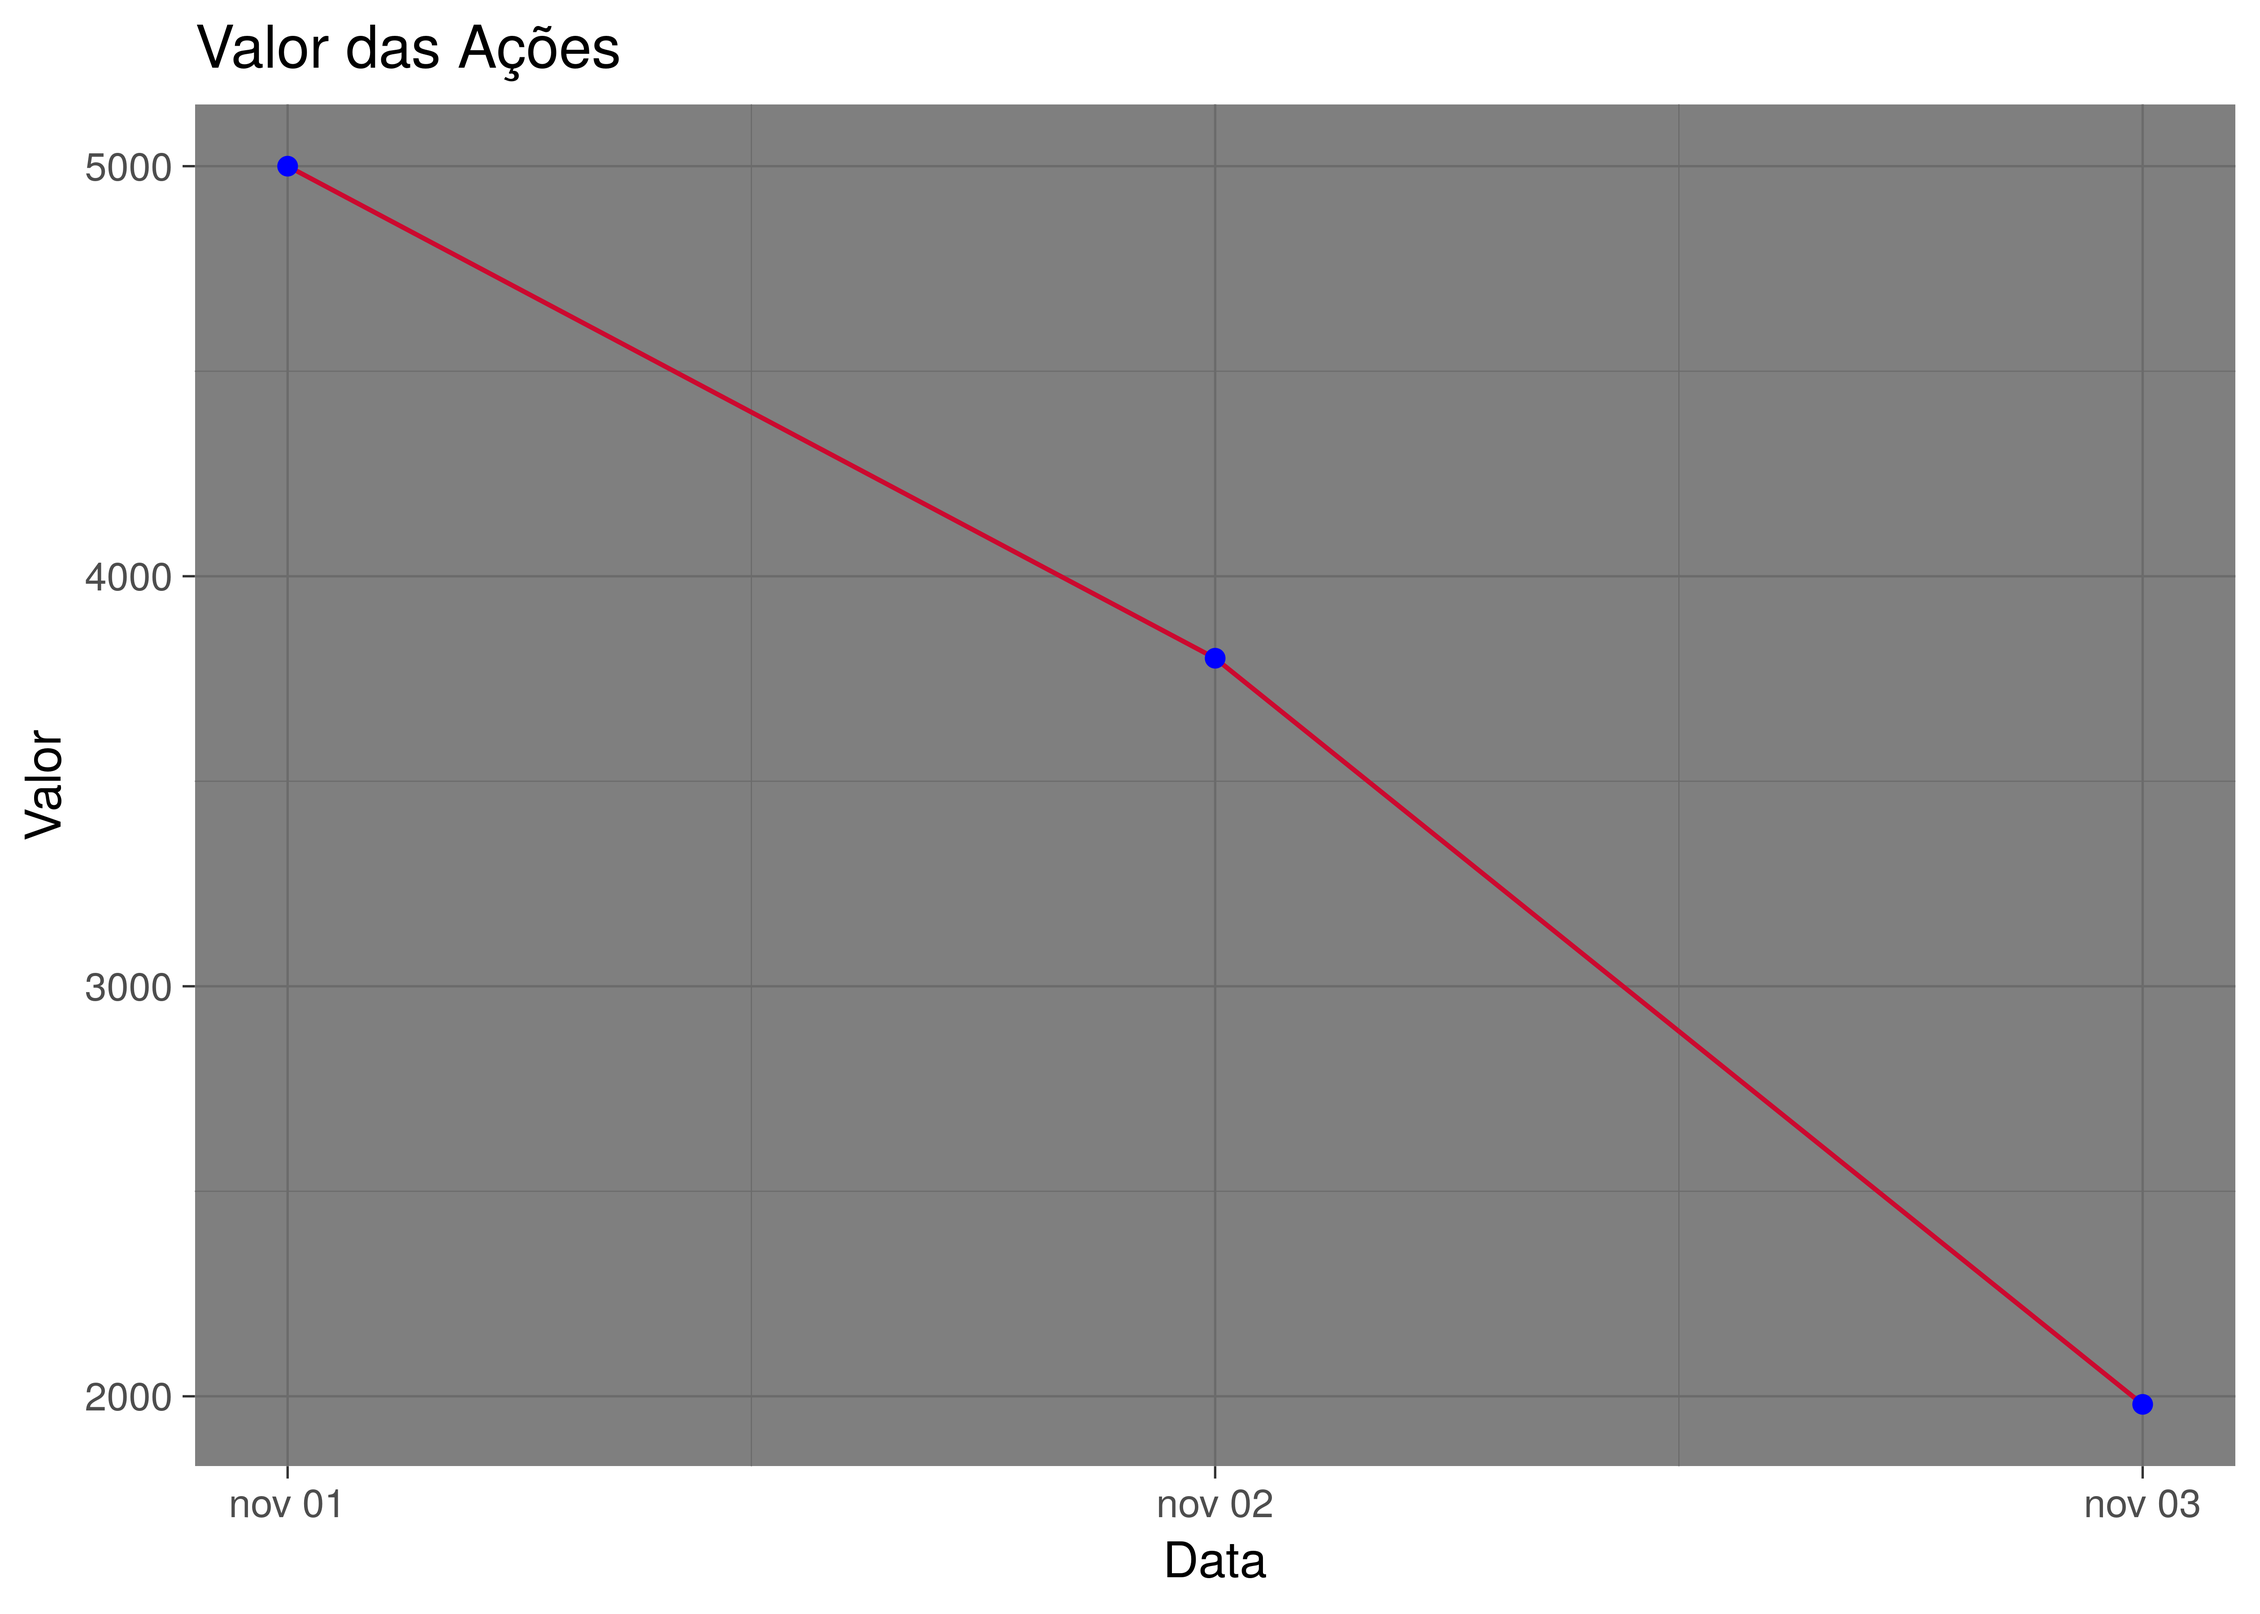
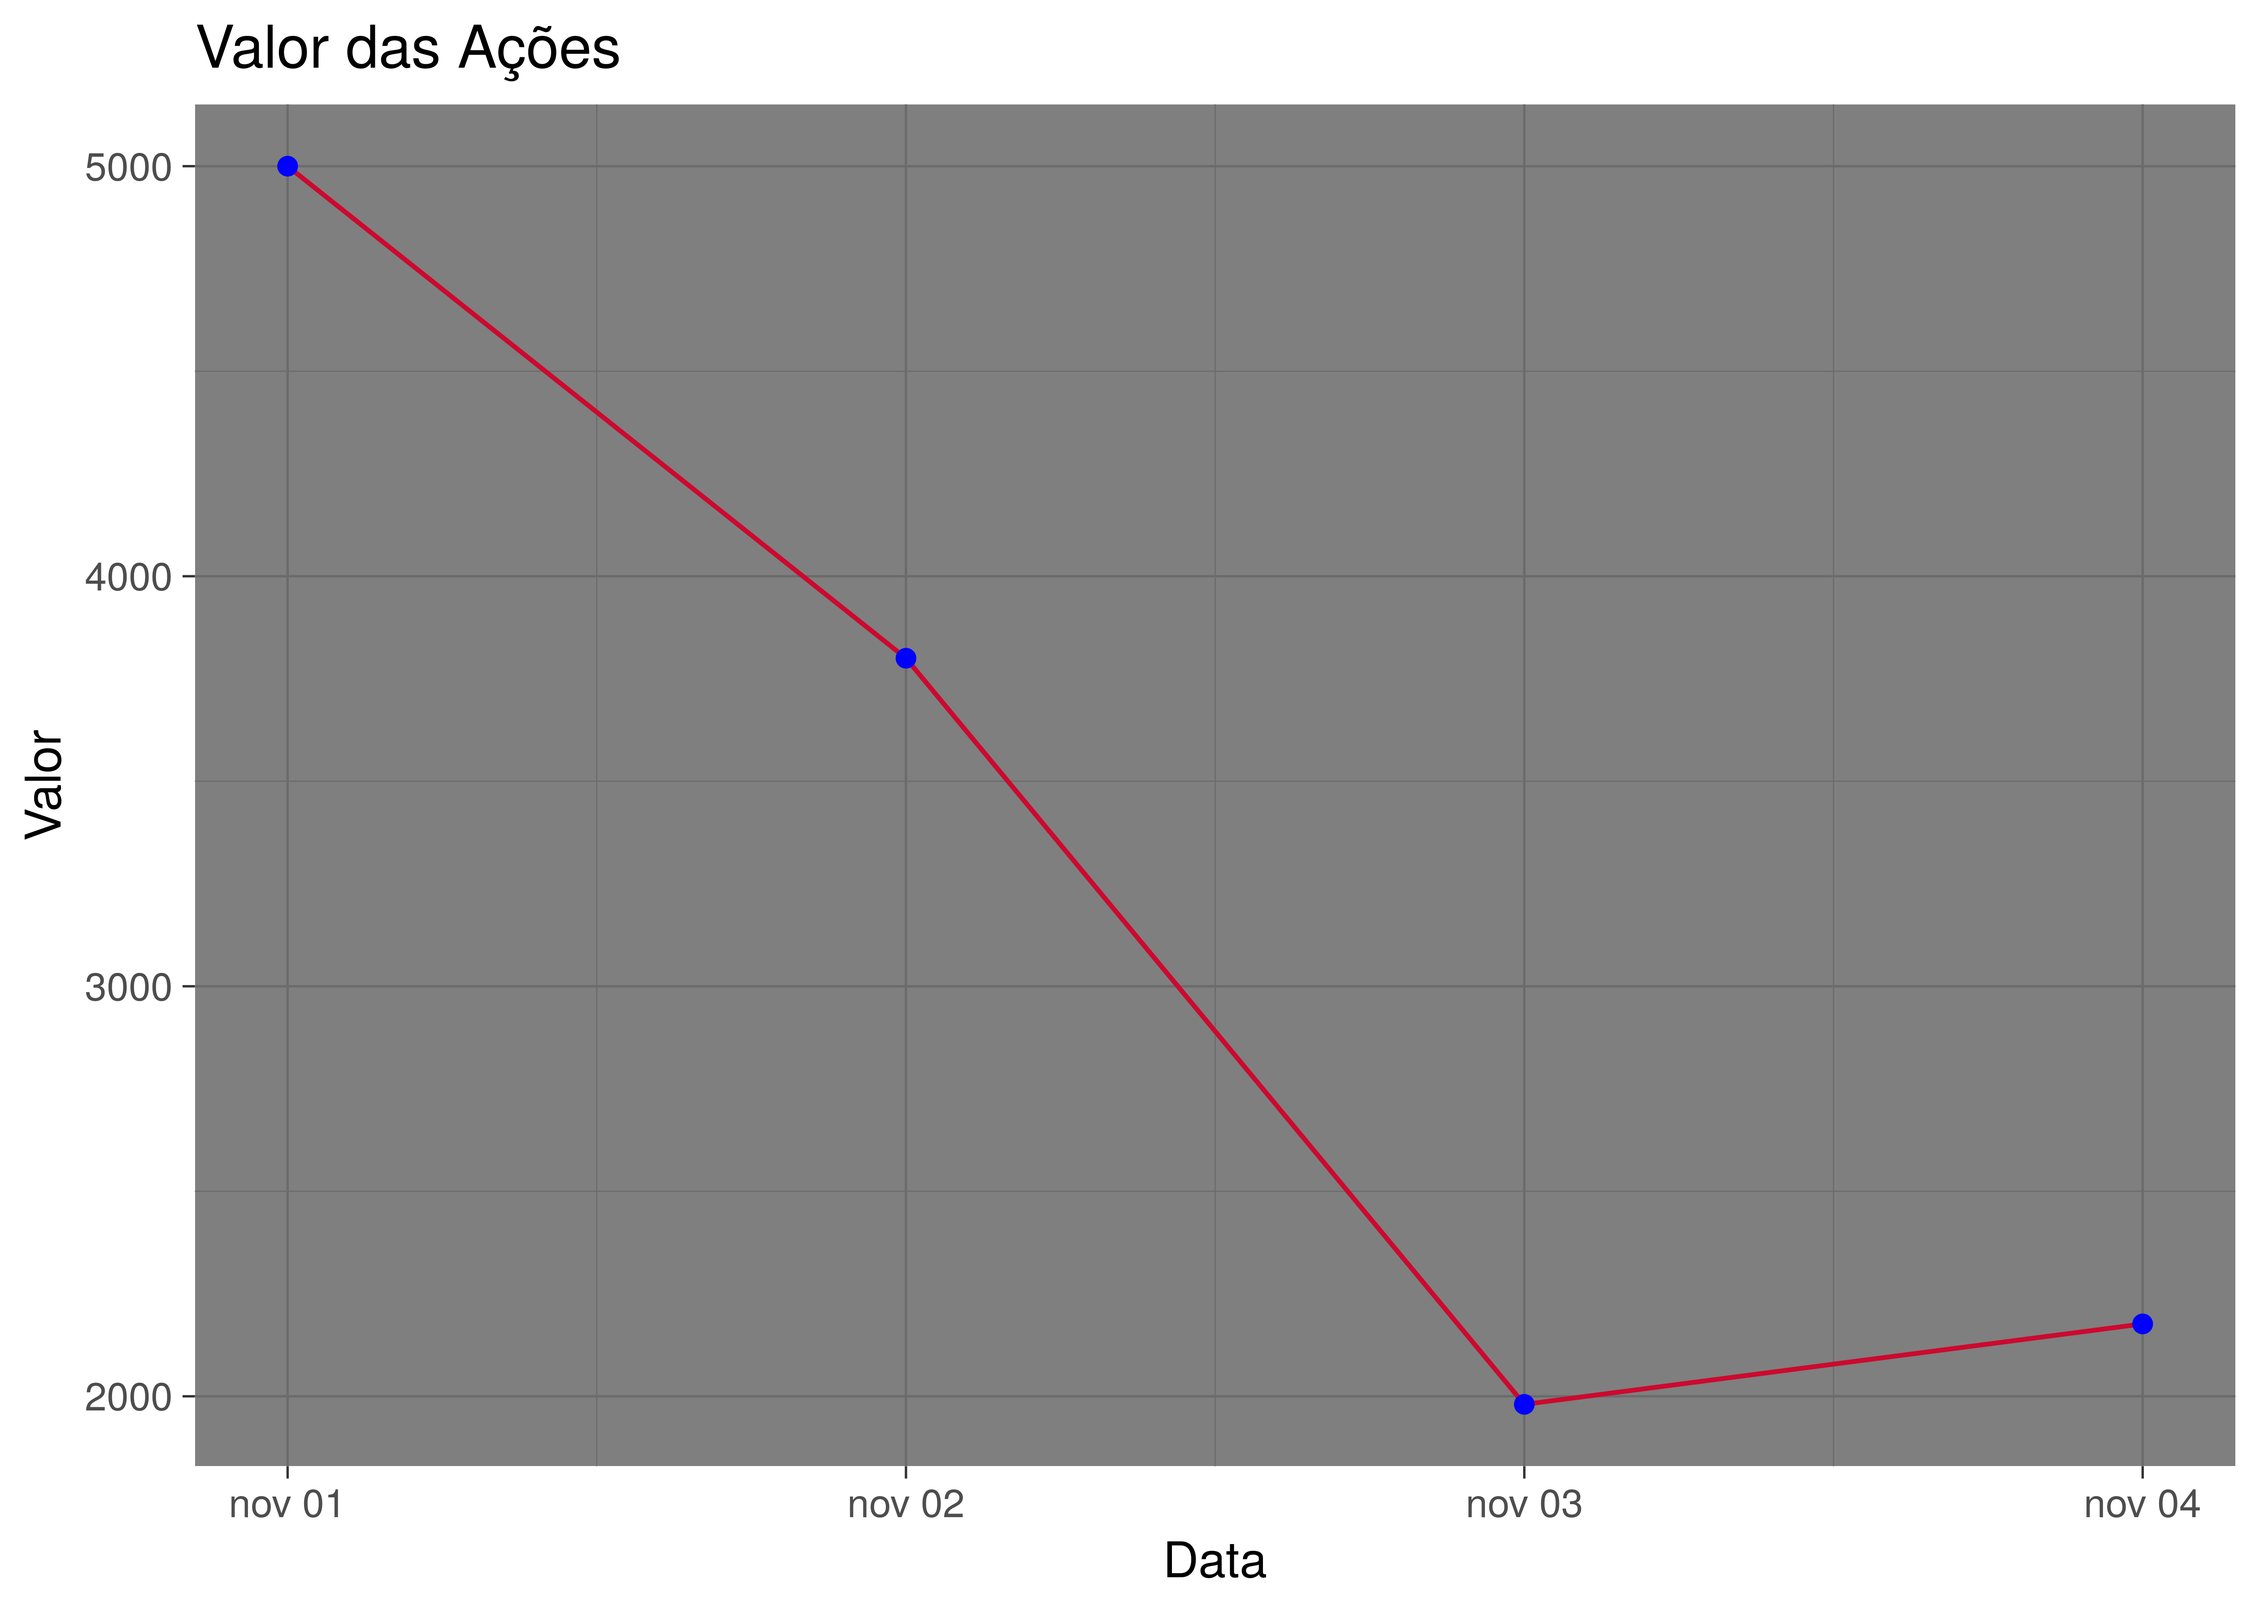
att vlr acao

diff --git a/post/estrutura_acionaria/index.html b/post/estrutura_acionaria/index.html
@@ -119,7 +119,7 @@ empenho que os mesmos possuem para solidificar a instituição no comércio de
 
 <p>O valor da ação varia conforme o crescimento da instituição e a demanda por compra e venda dos papeis:</p>
 
-<p><strong>VALOR ATUAL DE UMA AÇÃO = 1.980,345803 MOEDAS</strong></p>
+<p><strong>VALOR ATUAL DE UMA AÇÃO = 2.176,520639 MOEDAS</strong></p>
 
 <p><img src="/img/valor.png" alt="" /></p>
 

diff --git a/content/post/estrutura_acionaria.md b/content/post/estrutura_acionaria.md
@@ -49,7 +49,7 @@ O sistema de ações do grupo *Evol bank* permite que todos possam fazer parte d
 
 O valor da ação varia conforme o crescimento da instituição e a demanda por compra e venda dos papeis:
 
-**VALOR ATUAL DE UMA AÇÃO = 1.980,345803 MOEDAS**
+**VALOR ATUAL DE UMA AÇÃO = 2.176,520639 MOEDAS**
 
 
 
